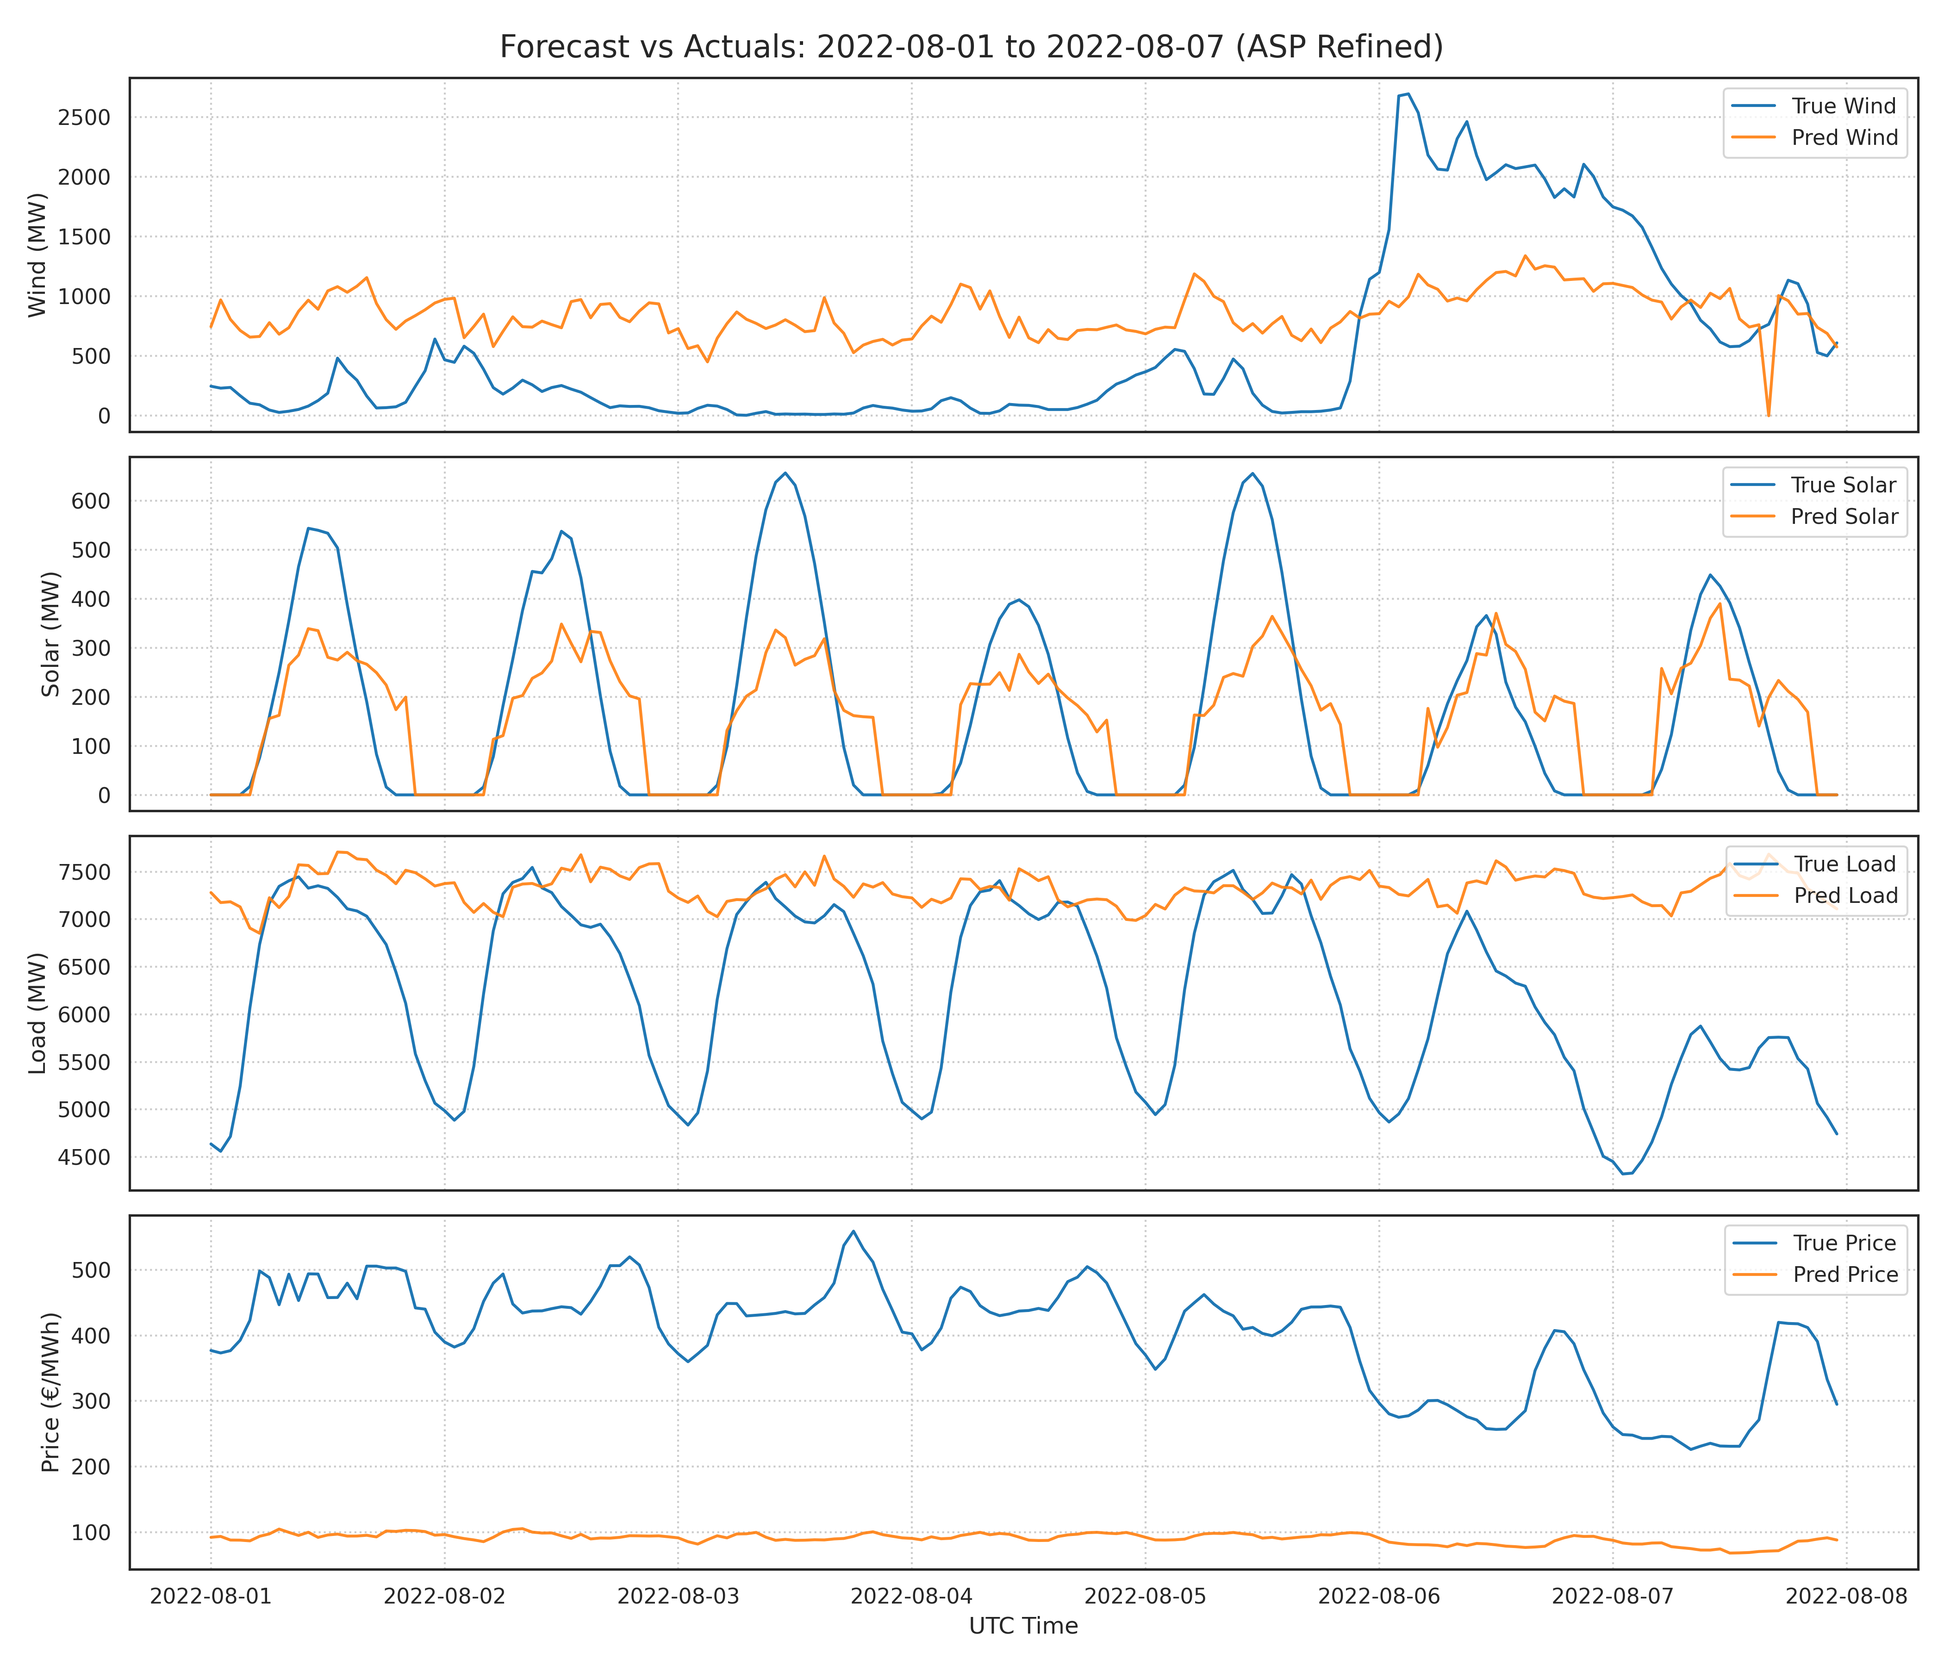
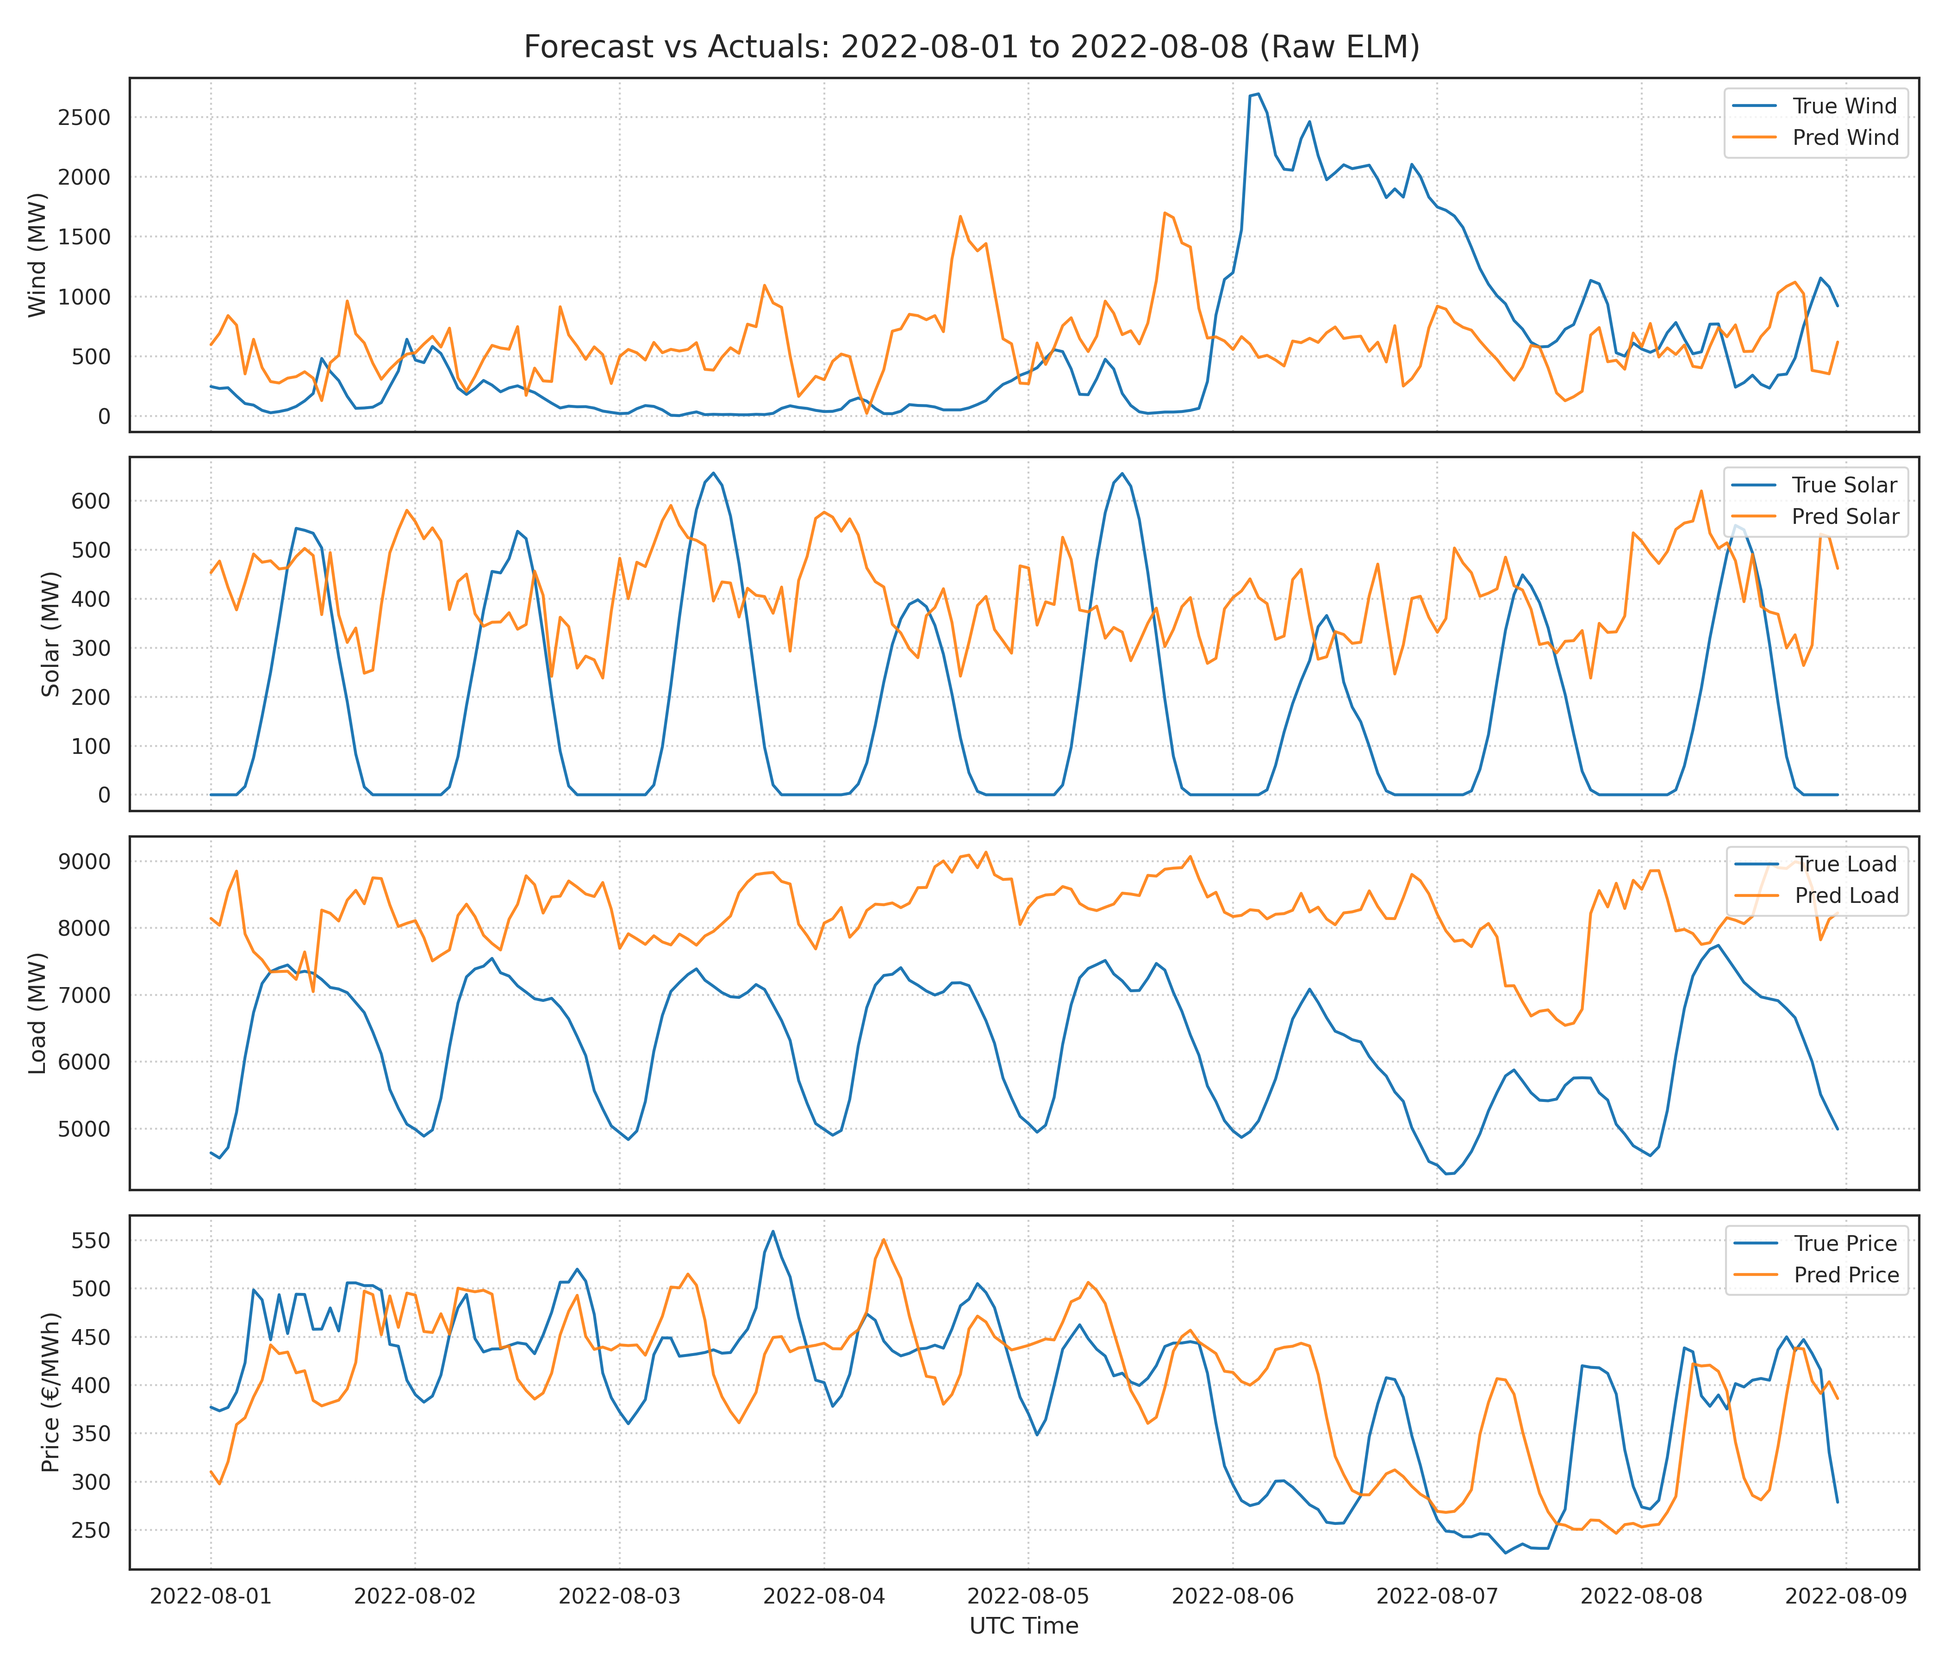
for the price, recursive method used, and night mask used for asp rules. good reults are shoiwing

diff --git a/src/train/fit_elm.py b/src/train/fit_elm.py
@@ -15,6 +15,7 @@ class RandomFeatureELM(nn.Module):
         g = torch.Generator().manual_seed(seed)
         self.device = torch.device(device)
         self.dtype = torch.get_default_dtype()
+        # Random projection weights (fixed)
         self.W = nn.Parameter(torch.randn(in_dim, hidden, generator=g, device=self.device, dtype=self.dtype) * 0.5, requires_grad=False)
         self.b = nn.Parameter(torch.randn(hidden, generator=g, device=self.device, dtype=self.dtype) * 0.5, requires_grad=False)
         self.act = act
@@ -31,6 +32,7 @@ class RandomFeatureELM(nn.Module):
         Y = Y.to(device=self.device, dtype=self.W.dtype)
         H = self._phi(X @ self.W + self.b)
         HtH = H.T @ H
+        # Identity matrix for Ridge Regression
         lamI = self.ridge * torch.eye(int(HtH.size(0)), device=H.device, dtype=H.dtype)
         self.beta = torch.linalg.solve(HtH + lamI, H.T @ Y)
     
@@ -41,6 +43,7 @@ class RandomFeatureELM(nn.Module):
         return H @ self.beta
 
 def extract_latents(encoder, X_np, device="cpu", batch_size=256):
+    """Runs the dCeNN encoder to get latent vectors z_t"""
     encoder.eval()
     device = torch.device(device)
     X = torch.from_numpy(X_np).to(device)
@@ -61,13 +64,14 @@ def run(cfg_path: str):
     Xtr, Ytr, _, _, _, _ = cache_dcenn_windows(cfg)
     
     # 2. Scale Targets
+    # We scale targets to N(0,1) so the ELM gradients are balanced across variables
     N_tr, H, C = Ytr.shape
     Ytr_flat = Ytr.reshape(-1, C)
     target_scaler = StandardScaler()
     Ytr_scaled = target_scaler.fit_transform(Ytr_flat).reshape(N_tr, H, C).astype(np.float32)
     print(f"[fit_elm] Target Mean: {target_scaler.mean_}")
 
-    # 3. Extract Latents
+    # 3. Extract Latents from Trained Encoder
     device = torch.device("cuda" if torch.cuda.is_available() else "cpu")
     in_channels = Xtr.shape[2]
     enc = TinyDCENN(in_channels=in_channels, hidden_channels=cfg["training"]["encoder"]["latent_channels"]).to(device)
@@ -78,43 +82,76 @@ def run(cfg_path: str):
     
     print("[fit_elm] Extracting latents...")
     Ztr = extract_latents(enc, Xtr, device=device)
+    
+    # Standardize Latents (Z) to help the ELM
     mu = Ztr.mean(axis=0, keepdims=True)
     sigma = Ztr.std(axis=0, keepdims=True) + 1e-6
     Ztr_n = (Ztr - mu) / sigma
 
-    # 4. Prepare Inputs with Lags (Skip Connections)
+    # 4. Prepare Inputs with Skip Connections (Lags)
     print("[fit_elm] Building lag features...")
     
     def get_lags(X_tensor, col_idx):
+        # Squeeze dimensions to get [N]
         lag1  = X_tensor[:, -1, col_idx, 0, 0]
         lag24 = X_tensor[:, -24, col_idx, 0, 0]
         return np.stack([lag1, lag24], axis=1)
 
-    # Indices: 9=Wind, 10=Solar, 11=Load, 12=Price
+    # Indices from window.py: 9=Wind, 10=Solar, 11=Load, 12=Price
     X_wind_tr  = np.concatenate([Ztr_n, get_lags(Xtr, 9)], axis=1)
     X_solar_tr = np.concatenate([Ztr_n, get_lags(Xtr, 10)], axis=1)
     X_load_tr  = np.concatenate([Ztr_n, get_lags(Xtr, 11)], axis=1)
+    
+    # Price Input: Latents + Price Lags
+    # Note: The "Anchor" Price(t) is effectively lag1
     X_price_tr = np.concatenate([Ztr_n, get_lags(Xtr, 12)], axis=1)
 
     # 5. Fit Ensembles
     elm_cfg = cfg["training"]["elm"]
     models_wind, models_solar, models_load, models_price = [], [], [], []
     
-    def fit_ens(X, Y, model_list, name):
+    def fit_ens(X, Y, model_list, name, custom_lambda=None):
         print(f"Fitting {name} head (Input Dim: {X.shape[1]})...")
         X_t = torch.from_numpy(X.astype(np.float32))
         Y_t = torch.from_numpy(Y.astype(np.float32))
+        
+        # Use custom lambda if provided (e.g. for Wind peaks), else config default
+        lam = custom_lambda if custom_lambda is not None else elm_cfg["ridge_lambda"]
+        
         for k in range(elm_cfg.get("ensemble", 1)):
-            elm = RandomFeatureELM(X.shape[1], H, hidden=elm_cfg["hidden"], ridge_lambda=elm_cfg["ridge_lambda"], seed=k)
+            elm = RandomFeatureELM(X.shape[1], H, hidden=elm_cfg["hidden"], ridge_lambda=lam, seed=k)
             elm.fit(X_t, Y_t)
             model_list.append(elm)
 
-    fit_ens(X_wind_tr,  Ytr_scaled[:,:,0], models_wind,  "Wind")
-    fit_ens(X_solar_tr, Ytr_scaled[:,:,1], models_solar, "Solar")
-    fit_ens(X_load_tr,  Ytr_scaled[:,:,2], models_load,  "Load")
-    fit_ens(X_price_tr, Ytr_scaled[:,:,3], models_price, "Price")
+    # --- FITTING LOGIC ---
 
-    # 6. Save
+    # A. WIND: Direct Prediction
+    # Using LOW lambda (1e-5) to allow high peaks (reduce bias)
+    fit_ens(X_wind_tr,  Ytr_scaled[:,:,0], models_wind,  "Wind", custom_lambda=1e-5)
+    
+    # B. SOLAR: Direct Prediction
+    fit_ens(X_solar_tr, Ytr_scaled[:,:,1], models_solar, "Solar", custom_lambda=1e-2)
+    
+    # C. LOAD: Direct Prediction
+    fit_ens(X_load_tr,  Ytr_scaled[:,:,2], models_load,  "Load", custom_lambda=1e-2)
+    
+    # D. PRICE: Recursive (Chain) Prediction
+    # Goal: Predict the HOURLY CHANGE (Step), not absolute value
+    
+    # 1. Get Anchor Price(t) from input features (Index 256 is Lag1)
+    price_t = X_price_tr[:, 256] # [N]
+    
+    # 2. Create Sequence: [Price(t), Price(t+1), ... Price(t+12)]
+    # We assume index 3 is Price in Ytr_scaled
+    price_seq = np.concatenate([price_t[:, None], Ytr_scaled[:,:,3]], axis=1) # [N, H+1]
+    
+    # 3. Calculate Steps: Diff between t and t+1, t+1 and t+2...
+    price_step_diffs = np.diff(price_seq, axis=1) # [N, H]
+    
+    # 4. Fit on Steps
+    fit_ens(X_price_tr, price_step_diffs, models_price, "Price_Steps", custom_lambda=1e-2)
+
+    # 6. Save everything
     out_dir = Path(cfg["paths"]["checkpoints_dir"])
     save_obj = {
         "mu": mu, "sigma": sigma, "target_scaler": target_scaler,

diff --git a/scripts/viz_plot_week.py b/scripts/viz_plot_week.py
@@ -1,4 +1,7 @@
-import argparse, pandas as pd, matplotlib.pyplot as plt, numpy as np
+import argparse
+import pandas as pd
+import matplotlib.pyplot as plt
+import numpy as np
 from pathlib import Path
 
 def stack(pred, prefix, H):
@@ -10,36 +13,69 @@ if __name__ == "__main__":
     ap.add_argument("--truth", default="data/interim/test.parquet")
     ap.add_argument("--start", required=True, help="UTC start like 2022-08-01 00:00:00")
     ap.add_argument("--hours", type=int, default=168)  # one week
-    ap.add_argument("--horizon", type=int, default=12)
+    # Default to 12 to see the "Hard" prediction
+    ap.add_argument("--horizon", type=int, default=12, help="Horizon step to visualize (1-12)")
     args = ap.parse_args()
 
     pred = pd.read_parquet(args.pred)
     truth = pd.read_parquet(args.truth)
-    H = args.horizon
+    
+    h_step = args.horizon
+    print(f"Visualizing Horizon: +{h_step} hours")
 
-    # Build aligned truth (wind/solar CF→MW using capacity at window end)
-    # We mimic src/eval/evaluate.py’s window alignment:
-    # For display, we’ll plot the 1-step ahead series (h=1) to keep it simple.
-    cols = ["wind_mw","solar_mw","load_mw","price"]
-    p1 = pred[[f"{c}+h1" for c in cols]].rename(columns=lambda c: c.replace("+h1",""))
-    # Align index to truth
-    p1 = p1.loc[p1.index.intersection(truth.index)]
+    # 1. Select specific horizon columns
+    cols = ["wind_mw", "solar_mw", "load_mw", "price"]
+    target_cols = [f"{c}+h{h_step}" for c in cols]
+    
+    # Check if columns exist
+    if not all(c in pred.columns for c in target_cols):
+        print(f"Error: Columns {target_cols} not found in predictions.")
+        exit(1)
 
-    # slice window
+    p_viz = pred[target_cols].copy()
+    
+    # 2. Rename to clean names
+    p_viz.columns = cols
+
+    # 3. CRITICAL: Shift Index
+    # A prediction made at t=00:00 for horizon +12 applies to t=12:00.
+    # We shift the index forward so it aligns with the Truth at 12:00.
+    p_viz.index = p_viz.index + pd.Timedelta(hours=h_step)
+
+    # 4. Align and Slice Window
+    # Create the requested time range
     idx = pd.date_range(args.start, periods=args.hours, freq="h", tz="UTC")
-    p1 = p1.loc[idx]
-    tr = truth.loc[idx, ["wind_mw","solar_mw","load_mw","price_eur_mwh"]].rename(columns={"price_eur_mwh":"price"})
+    
+    # Find intersection of (Requested Range) AND (Available Preds) AND (Available Truth)
+    valid_idx = idx.intersection(p_viz.index).intersection(truth.index)
+    
+    if valid_idx.empty:
+        print(f"No overlapping data found for {args.start} with +{h_step}h shift.")
+        exit(1)
 
-    # Plot
-    fig, axes = plt.subplots(4,1, figsize=(12,10), sharex=True)
-    for ax, key, label in zip(axes, ["wind_mw","solar_mw","load_mw","price"], ["Wind (MW)","Solar (MW)","Load (MW)","Price (€/MWh)"]):
-        ax.plot(tr.index, tr[key], label=f"True {label}")
-        ax.plot(p1.index, p1[key], label=f"Pred {label}", alpha=0.8)
-        ax.set_ylabel(label); ax.grid(True, ls=":")
+    # Slice data
+    p_viz = p_viz.loc[valid_idx]
+    tr = truth.loc[valid_idx, ["wind_mw","solar_mw","load_mw","price_eur_mwh"]].rename(columns={"price_eur_mwh":"price"})
+
+    # 5. Plot
+    fig, axes = plt.subplots(4, 1, figsize=(12, 10), sharex=True)
+    labels = ["Wind (MW)", "Solar (MW)", "Load (MW)", "Price (€/MWh)"]
+    
+    for ax, key, label in zip(axes, cols, labels):
+        # Plot Truth
+        ax.plot(tr.index, tr[key], label=f"True", color="tab:blue", linewidth=1.5)
+        # Plot Prediction
+        ax.plot(p_viz.index, p_viz[key], label=f"Pred (h={h_step})", color="tab:orange", linewidth=1.5, alpha=0.8)
+        
+        ax.set_ylabel(label)
+        ax.grid(True, ls=":")
         ax.legend(loc="upper right")
+
     axes[-1].set_xlabel("UTC time")
+    plt.suptitle(f"Forecast vs Actuals (Horizon: {h_step}h)", fontsize=16)
     plt.tight_layout()
-    out = Path("outputs")/"viz_week.png"
+    
+    out = Path("outputs") / f"viz_week_h{h_step}.png"
     out.parent.mkdir(parents=True, exist_ok=True)
     plt.savefig(out, dpi=150)
-    print(f"Saved {out}")
+    print(f"Saved plot to {out}")

diff --git a/src/inference/predict.py b/src/inference/predict.py
@@ -22,14 +22,12 @@ def run(cfg_path: str):
     # 1. Load Data
     _, _, _, _, Xte, _ = cache_dcenn_windows(cfg)
     
-    # Reconstruct Index
     from ..dataio.preprocess import build_master
     _, _, test_df = build_master(cfg)
     ctx, hz = cfg["features"]["context_hours"], cfg["features"]["horizon_hours"]
     te_index = test_df.index[list(range(ctx, len(test_df) - hz))]
     if len(te_index) > Xte.shape[0]: te_index = te_index[:Xte.shape[0]]
 
-    # 2. Encoder & Latents
     device = torch.device("cuda" if torch.cuda.is_available() else "cpu")
     enc = TinyDCENN(Xte.shape[2], cfg["training"]["encoder"]["latent_channels"]).to(device)
     ckpt = torch.load(Path(cfg["paths"]["checkpoints_dir"]) / "encoder.pt", map_location=device)
@@ -39,38 +37,45 @@ def run(cfg_path: str):
     saved = joblib.load(Path(cfg["paths"]["checkpoints_dir"]) / "elms.joblib")
     Zte_n = (Zte - saved["mu"]) / saved["sigma"]
     
-    # 3. Prepare Inputs (Lags + Latents)
     def get_lags(X_tensor, col_idx):
         lag1  = X_tensor[:, -1, col_idx, 0, 0]
         lag24 = X_tensor[:, -24, col_idx, 0, 0]
         return np.stack([lag1, lag24], axis=1)
 
-    # Note: Using implicit price lags (Golden Copy version)
-    lag_wind  = get_lags(Xte, 9)
-    lag_solar = get_lags(Xte, 10)
-    lag_load  = get_lags(Xte, 11)
-    lag_price = get_lags(Xte, 12)
-
-    X_wind  = np.concatenate([Zte_n, lag_wind], axis=1)
-    X_solar = np.concatenate([Zte_n, lag_solar], axis=1)
-    X_load  = np.concatenate([Zte_n, lag_load], axis=1)
-    X_price = np.concatenate([Zte_n, lag_price], axis=1)
+    X_wind  = np.concatenate([Zte_n, get_lags(Xte, 9)], axis=1)
+    X_solar = np.concatenate([Zte_n, get_lags(Xte, 10)], axis=1)
+    X_load  = np.concatenate([Zte_n, get_lags(Xte, 11)], axis=1)
+    X_price = np.concatenate([Zte_n, get_lags(Xte, 12)], axis=1)
 
     # 4. Predict
     p_wind  = _ensemble_predict(saved["elm_wind"],  X_wind)
     p_solar = _ensemble_predict(saved["elm_solar"], X_solar)
     p_load  = _ensemble_predict(saved["elm_load"],  X_load)
-    p_price = _ensemble_predict(saved["elm_price"], X_price)
+    
+    # --- RECURSIVE RECONSTRUCTION ---
+    # 1. Predict STEPS (Hourly changes)
+    p_price_steps = _ensemble_predict(saved["elm_price"], X_price) # [N, 12]
+    
+    # 2. Get Anchor Price(t)
+    price_t = X_price[:, 256] # [N]
+    
+    # 3. Cumulative Sum of steps
+    # cumsum along horizon axis (axis 1)
+    # [s1, s1+s2, s1+s2+s3 ...]
+    p_price_cumsum = np.cumsum(p_price_steps, axis=1)
+    
+    # 4. Add to Anchor
+    # Broadcast Price(t) [N] -> [N, H] and add cumsum
+    p_price = price_t[:, None] + p_price_cumsum
+    # --------------------------------
 
-    # 5. Inverse Scale & "Soft" Clamping
-    # We remove negatives (physics), but we DO NOT force night to zero.
-    # This allows the "smooth/noisy" curve you preferred.
+    # 5. Inverse Scale & Clamping
     N, H = p_wind.shape
     stacked = np.stack([p_wind, p_solar, p_load, p_price], axis=2).reshape(-1, 4)
     inverse = saved["target_scaler"].inverse_transform(stacked).reshape(N, H, 4)
     
     final_wind  = np.maximum(inverse[:,:,0], 0.0)
-    final_solar = np.maximum(inverse[:,:,1], 0.0) # <--- No strict night mask here
+    final_solar = np.maximum(inverse[:,:,1], 0.0)
     final_load  = np.maximum(inverse[:,:,2], 0.0)
     final_price = np.maximum(inverse[:,:,3], -100.0)
 

diff --git a/scripts/viz_results.py b/scripts/viz_results.py
@@ -32,7 +32,7 @@ def plot_week(cfg_path, start_date="2022-08-01", end_date="2022-08-08", use_asp=
     
     # 3. Align Data (Selecting Horizon h=1 explicitly)
     # FIX: Use exact column names to avoid matching +h10, +h11, etc.
-    target_cols_h1 = ["wind_mw+h1", "solar_mw+h1", "load_mw+h1", "price+h1"]
+    target_cols_h1 = ["wind_mw+h12", "solar_mw+h12", "load_mw+h12", "price+h12"]
     
     # Check if they exist (ASP output might change order, but names should persist)
     missing = [c for c in target_cols_h1 if c not in preds.columns]
@@ -43,7 +43,7 @@ def plot_week(cfg_path, start_date="2022-08-01", end_date="2022-08-08", use_asp=
     preds_h1 = preds[target_cols_h1].copy()
     
     # Shift index: prediction made at 't' for horizon 'h1' applies to time 't+1'
-    preds_h1.index = preds_h1.index + pd.Timedelta(hours=1)
+    preds_h1.index = preds_h1.index + pd.Timedelta(hours=12)
     
     # Rename columns for easier access
     preds_h1.columns = ["Wind_Pred", "Solar_Pred", "Load_Pred", "Price_Pred"]
